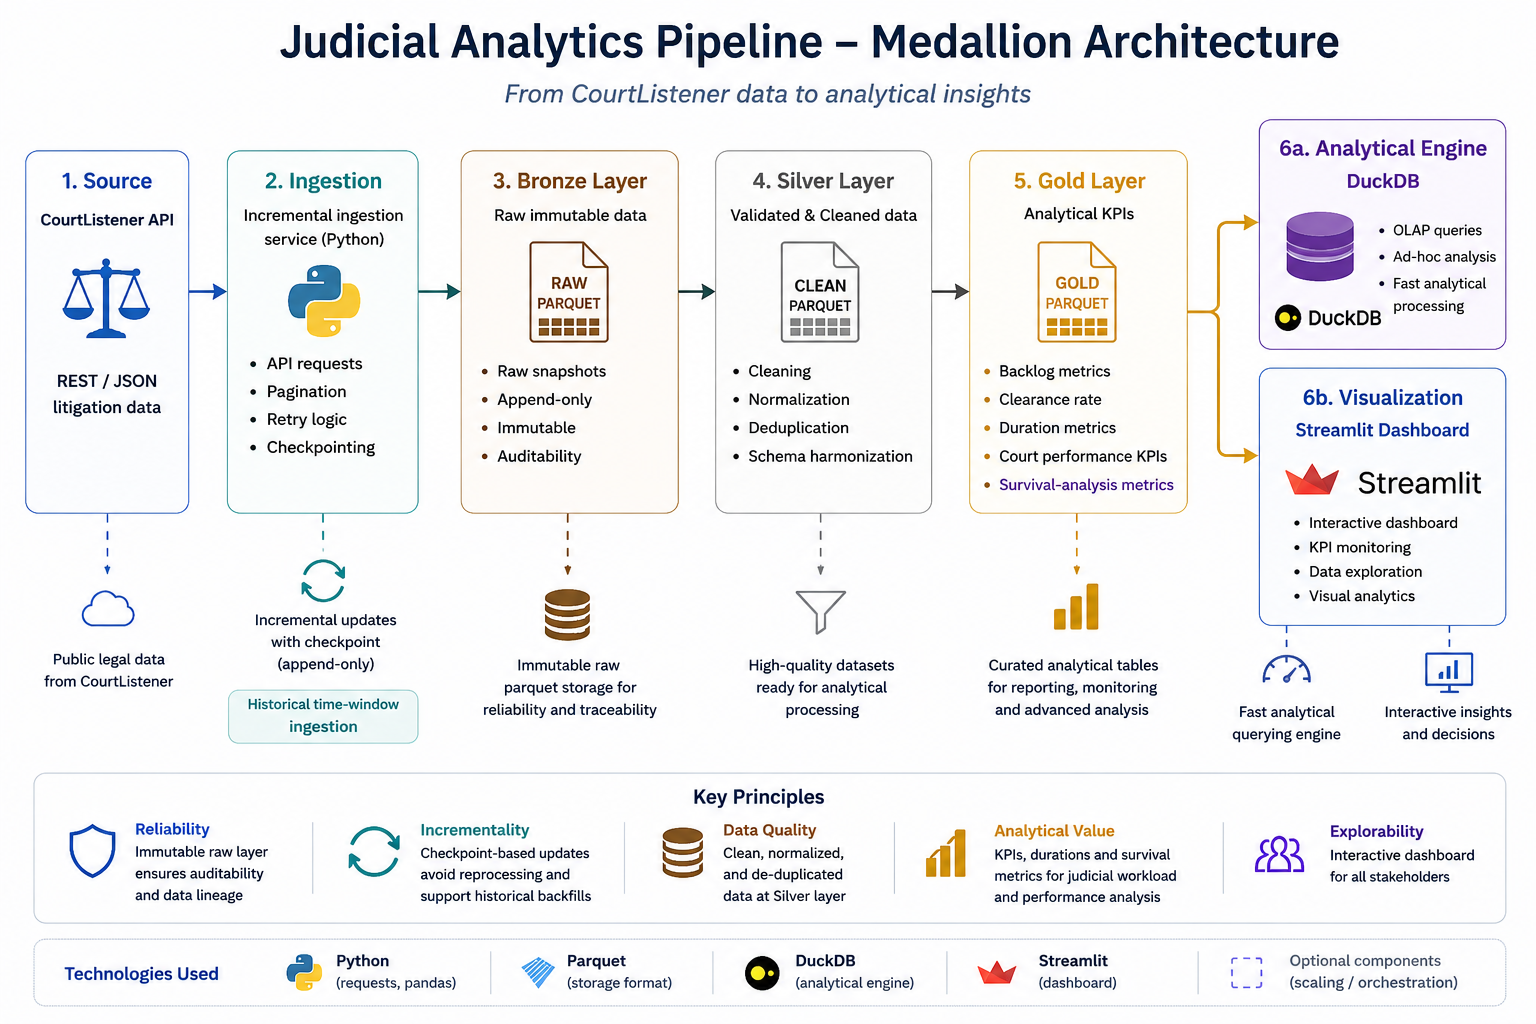
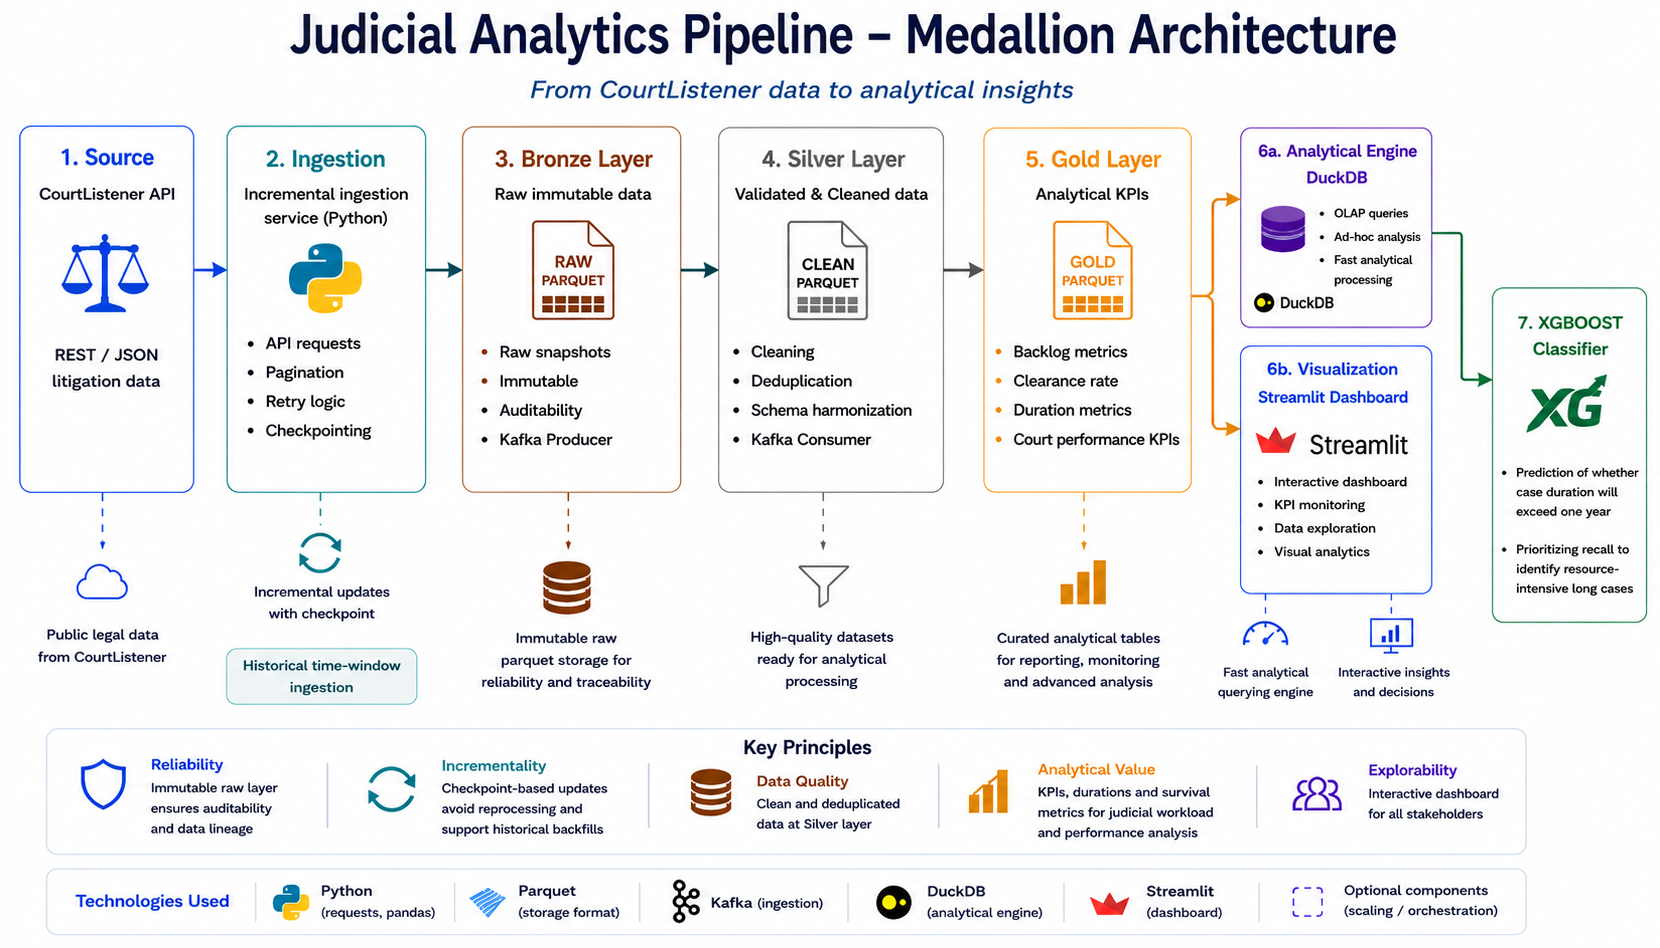
updated readme and files

diff --git a/README.md b/README.md
@@ -30,13 +30,13 @@ To test the program to its full potential, we recommend running in order the fol
 
 - install the packages in 'requirements.txt' (pip install -r requirements.txt),
 
-- run_kafka.py : it will fetch data from Courtlistener and process it through the Silver layer, it will run until you stop it,
+- run_kafka.py : it will fetch data from Courtlistener, send it to the Bronze topic and process it through the Silver layer, it will run until you stop it,
 
 - run_gold_pipeline.py: it will combine the new data with our existing database and compute the gold metrics that will be used for the dashboard,
 
 - dashboard.py : don't run it directly, use in the terminal 'python -m streamlit run "./dashboard.py"'. In case it doesn't work, use the absolute path to the script. It will launch a dashboard with the most important metrics for cases backlogs
 
-- predict_resolution.py : taking a parquet file of unresolved cases as input, it predicts whether the case will last more or less than a year,
+- predict_resolution.py : taking a parquet file of unresolved cases (from silver/) as input, it predicts whether the case will last more or less than a year,
 
 - check_status.py : it checks whether a case, identified by its docket number and court_id, has been terminated or not.
 
@@ -114,14 +114,12 @@ The architecture separates:
 
 Current exploratory dataset:
 
-- ~34k judicial records
-- Filing date coverage: 1985–2026 (strongly concentrated after 2020)
-- Active cases: ~33k
-- Resolved cases: ~800
-- Average observed duration: ~148 days
+- ~5M judicial records
+- Filing date coverage: 1934–2026 (strongly concentrated after 2020)
+- Active cases: ~3M
+- Average observed duration: ~332 days
 - Incremental checkpoint-based ingestion
 - Historical time-window ingestion support
-- Append-only Bronze architecture
 
 The dataset remains exploratory and partially incomplete due to API coverage limitations and right-censoring effects.
 
@@ -155,40 +153,47 @@ The current dataset exhibits:
 project/
 │
 ├── data/
-│   └── dockets_terminated_25_onwards.jsonl
-│
-├── dashboard/
-│   ├── pages/
-│   └── app.py
+│   ├── dockets_observatory_2020_onwards.jsonl
+│   ├── dockets_terminated_21_onwards.jsonl
+│   ├── dockets_terminated_23_onwards.jsonl
+│   └── tmp_dockets_terminated_23_onwards.jsonl
 │
 ├── docs/
-│   ├── presentation/BDT_Project_Presentation.pptx
-│   ├── report/
-│   ├── dashboard_preview.png
-│   └── images/
-│       ├── architecture_project.png
-│       └── dashboard_preview.png
-│
-├── logs/
+│   ├── images/
+│   │   ├── architecture_project.png
+│   │   └── dashboard_preview.png
+│   └── presentation/
+│       └── BDT_Project_Presentation.pptx
 │
 ├── gold/
 │   ├── metrics/
-│   │   ├── active_cases_by_court.parquet
+│   │   ├── active_cases_by_circuit_quarter.parquet
+│   │   ├── active_cases_by_circuit_year.parquet
+│   │   ├── active_cases_by_court_quarter.parquet
+│   │   ├── active_cases_by_court_year.parquet
 │   │   ├── avg_resolution_time_by_court.parquet
-│   │   ├── backlog_by_year.parquet
-│   │   ├── case_duration_distribution.parquet
+│   │   ├── backlog_evolution_circuit_by_quarter.parquet
+│   │   ├── case_duration_distribution_circuit_by_quarter.parquet
+│   │   ├── case_duration_distribution_court_by_quarter.parquet
+│   │   ├── case_enhanced.parquet
+│   │   ├── case_inflow_by_quarter.parquet
 │   │   ├── case_inflow_by_year.parquet
-│   │   ├── case_metrics.parquet
+│   │   ├── case_outflow_by_quarter.parquet
 │   │   ├── case_outflow_by_year.parquet
-│   │   ├── clearance_rate_by_year.parquet
-│   │   └── court_performance_metrics.parquet
+│   │   ├── court_backlog_evolution.parquet
+│   │   ├── current_active_cases_by_court.parquet
+│   │   ├── jurisdiction_backlog_evolution.parquet
+│   │   └── metrics_by_circuit.parquet
 │   │
 │   └── pipelines/
-│       ├── build_backlog_metrics.py
-│       ├── build_case_metrics.py
-│       ├── build_clearance_rate.py
-│       ├── build_court_performance.py
+│       ├── _common.py
+│       ├── build_circuit_backlog.py
+│       ├── build_court_backlog.py
+│       ├── build_database_metrics.py
 │       ├── build_duration_metrics.py
+│       ├── build_enhanced_cases.py
+│       ├── build_juris_backlog.py
+│       ├── build_longitudinal_analysis.py
 │       ├── build_metrics.py
 │       └── build_temporal_metrics.py
 │
@@ -196,19 +201,48 @@ project/
 │   ├── api_client.py
 │   ├── checkpoint.py
 │   ├── config.py
-│   └── kafkaProducer.py
+│   ├── kafkaProducer.py
+│   └── open_bulk.py
 │
-├── scripts/
-│   └── run_historical_ingest.py
+├── logs/
+│   ├── checkpoint.json
+│   ├── ingestion_history.csv
+│   ├── last_update.json
+│   └── seen_ids.json
+│
+├── model_training/
+│   ├── models/
+|   |    ├── binary_confusion_matrix.png
+|   |    ├── binary_model.ubj
+|   |    ├── binary_threshold_tuning.png
+|   |    └── court_stats.parquet
+│   ├── prep_for_inference.py
+│   └── training.py
+│
+├── predictions/
+│
+├── processing/
+│   ├── kafkaToSilver.py
+│   ├── process_bulk.py
+│   └── process_courts.py
 │
 ├── silver/
-|
-|__ run_pipeline.py
-|
+│   ├── courts/
+│   |    └── courts_classified.parquet
+│   └── database_dockets_latest.parquet
+│
+├── .dockerignore
+├── .env
+├── .gitignore
+├── check_status.py
+├── compose.yaml
+├── dashboard.py
+├── Dockerfile
+├── predict_resolution.py
 ├── README.md
 ├── requirements.txt
-├── .gitignore
-└── Dockerfile
+├── run_gold_pipeline.py
+└── run_kafka.py
 ```
 
 ---
@@ -244,7 +278,7 @@ project/
 
 - judicial KPI overview,
 - backlog evolution visualization,
-- court congestion rankings,
+- court congestion computing,
 - duration distribution analysis,
 - interactive KPI exploration.
 
@@ -270,6 +304,11 @@ The clearance rate is defined as:
 
 ```text
 CR(t) = Outflow(t) / Inflow(t)
+```
+### Clearance efficiency 
+
+```text
+CR(t) = Outflow(t) / Backlog(t)
 ```
 
 ### Case duration
@@ -299,25 +338,15 @@ The interactive dashboard includes:
 ### Incremental ingestion update
 
 ```bash
-python ingestion/ingest_dockets.py
+python run_kafka.py
 ```
-
-### Historical ingestion
-
-```bash
-python scripts/run_historical_ingest.py --start-date 2020-01-01 --end-date 2025-12-31 --window year --use-disk-index
-```
-
 ---
 
 ### Rebuild analytical layers
 
 ```bash
-python silver/clean_dockets.py
 
-python gold/run_gold_pipeline.py
-
-python gold/pipelines/build_advanced_metrics.py
+python run_gold_pipeline.py
 ```
 
 ---
@@ -344,7 +373,7 @@ pip install -r requirements.txt
 ### Launch the Dashboard
 
 ```bash
-streamlit run dashboard/app.py
+python -m streamlit run dashboard.py
 ```
 
 ---
@@ -353,14 +382,19 @@ streamlit run dashboard/app.py
 
 ### Build container
 
+Windows:
 ```bash
-docker build -t judicial-dashboard .
+docker-compose up --build -d
+```
+Linux:
+```bash
+docker compose up --build -d
 ```
 
 ### Run container
 
 ```bash
-docker run -p 8501:8501 judicial-dashboard
+docker-compose up -d
 ```
 
 ### Access dashboard
@@ -401,9 +435,7 @@ The platform was designed to support scalable judicial analytics workflows.
 Implemented engineering features include:
 
 - incremental ingestion,
-- append-only Bronze storage,
 - checkpoint-based updates,
-- historical time-window ingestion,
 - parquet analytical layers,
 - DuckDB analytical querying,
 - modular Gold KPI pipelines,
@@ -435,6 +467,7 @@ Potential future improvements include:
 - Streamlit
 - parquet
 - Jupyter Notebook
+- Kafka
 
 ---
 